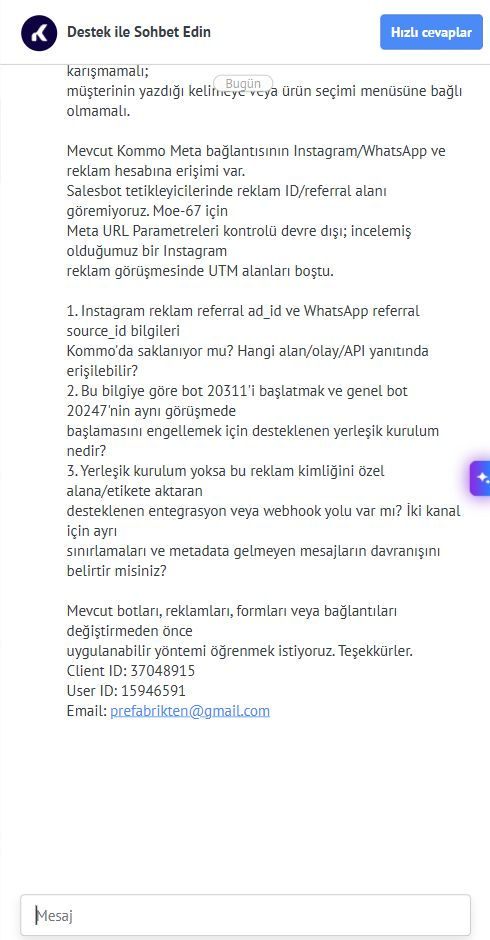
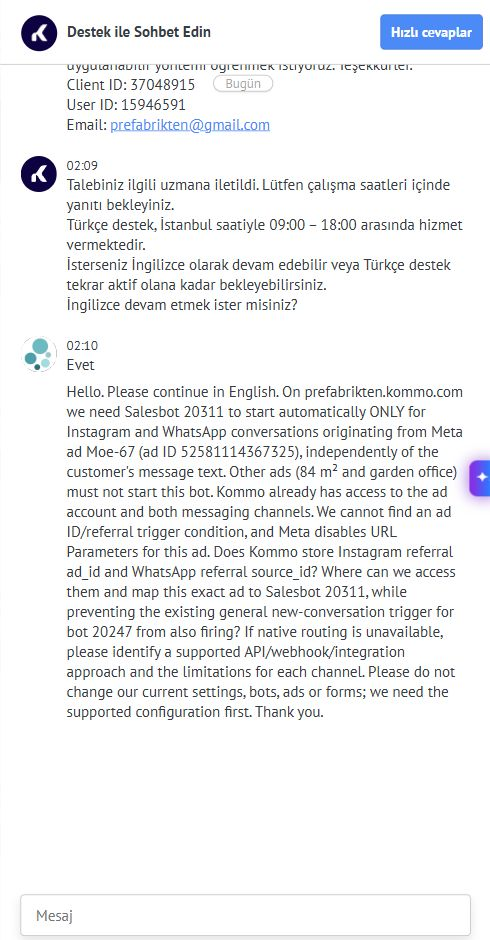
Record English support escalation for ad routing

Changed region(s): [[0.0306, 0.0617, 0.949, 0.7713], [0.0612, 0.9564, 0.0918, 0.9872]]

diff --git a/CALISMA_KAYDI.md b/CALISMA_KAYDI.md
@@ -839,3 +839,5 @@ CRM-005 KISMİ: ayrıbot hazır,otomatik reklam yönlendirmesi AÇIK. 20311'e ge
 Kullanıcı 67 reklamının Instagram/WhatsApp mesajlarında otomatik başlamasını ve diğer reklamlarla karışmamasını istedi. Başlangıç fetch başarılı, main ace6850 uzakla eşit; kullanıcı JSON'u korundu. Kommo koşullarında reklamID yok, incelenen anonim Instagram örneğinde Tracking data0/10; Meta Moe-67 URLParametreleri devre dışı. Ek doğrulama sonrasında Meta ayarlarına erişildi; kullanıcı kod kabul edilmiyor dediği sırada asıl inceleme sekmesi zaten ayarlara geçmişti. Kod saklanmadı. Bağlı Kommo Instagram/WhatsApp/reklam erişimleri mevcut. İşletmenin kendi Meta uygulaması2317199089035923 yayımlanmamış, WhatsApp webhook callback boş; hazır canlı alıcı yok. Instagram konuşma yönlendirme kurulumu mevcut kurulumla uyumsuzluk uyarısı verdi; iptal edildi. İzin/bağlantı/reklam/bot değişmedi. 67genel tetikleyici eklenmedi,84eski genel tetikleyicisi halen mevcut; tam ayrım/otomatik teslim TAMAMLANMADI. Rapor analizler/2026-10-14-kommo-reklam-kaynagi.txt; gönderilmemiş destek taslağı analizler/2026-10-14-kommo-destek-taslagi.txt. Sıradaki adım yerleşik reklamID aktarımını Kommo desteğiyle netleştirmek; dış mesaj için kullanıcı onayı gerekir. CRM-002/003/004/005 ve önceki uygulama işleri korunur. Kod/sürüm değişmedi. Yalnız bu kayıt/rapor/kanıt aktarılır; kullanıcı JSON'u/geçici çıktılar dahil edilmez. Gönderim sonucu uzak commit eşitliğiyle doğrulanacak.
 ### CRM-006 — destek gönderimi
 Kullanıcı açıkça "Evet, Kommo desteğine gönder" onayı verdi. Hazır metin 14 Ekim 02:09'da Yardım > Destek ekibiyle iletişime geçin > Destek ile Sohbet Edin kanalına gönderildi; mesaj sohbet içinde göründü. Kanıt referanslar/kommo/2026-10-14-destek-talebi-gonderildi.png. Kommo hesapID/kullanıcıID/işletme e-postasını otomatik ekledi. Müşteri mesajı/numarası veya doğrulama kodu gönderilmedi. Önceki taslak durumu bu kayıtla güncellendi; yanıt ve reklam eşleştirme kurulumu henüz yok. İnceleme kaydı9460b19 GitHub'a gönderildi/uzak eşitliği doğrulandı; gönderim kaydı ayrıca aktarılır. Mevcut bot/reklam ayarları değişmedi.
+
+CRM-006 destek ilk yanıtı, 14 Ekim 02:09: talep ilgili uzmana iletildi; Türkçe destek İstanbul09:00–18:00. Sohbette sunulan İngilizce devam seçeneği02:10'da seçildi ve aynı teknik soru İngilizce tekrarlandı. Teknik çözüm yanıtı henüz yok; reklam/bot kurulum işi açık.
